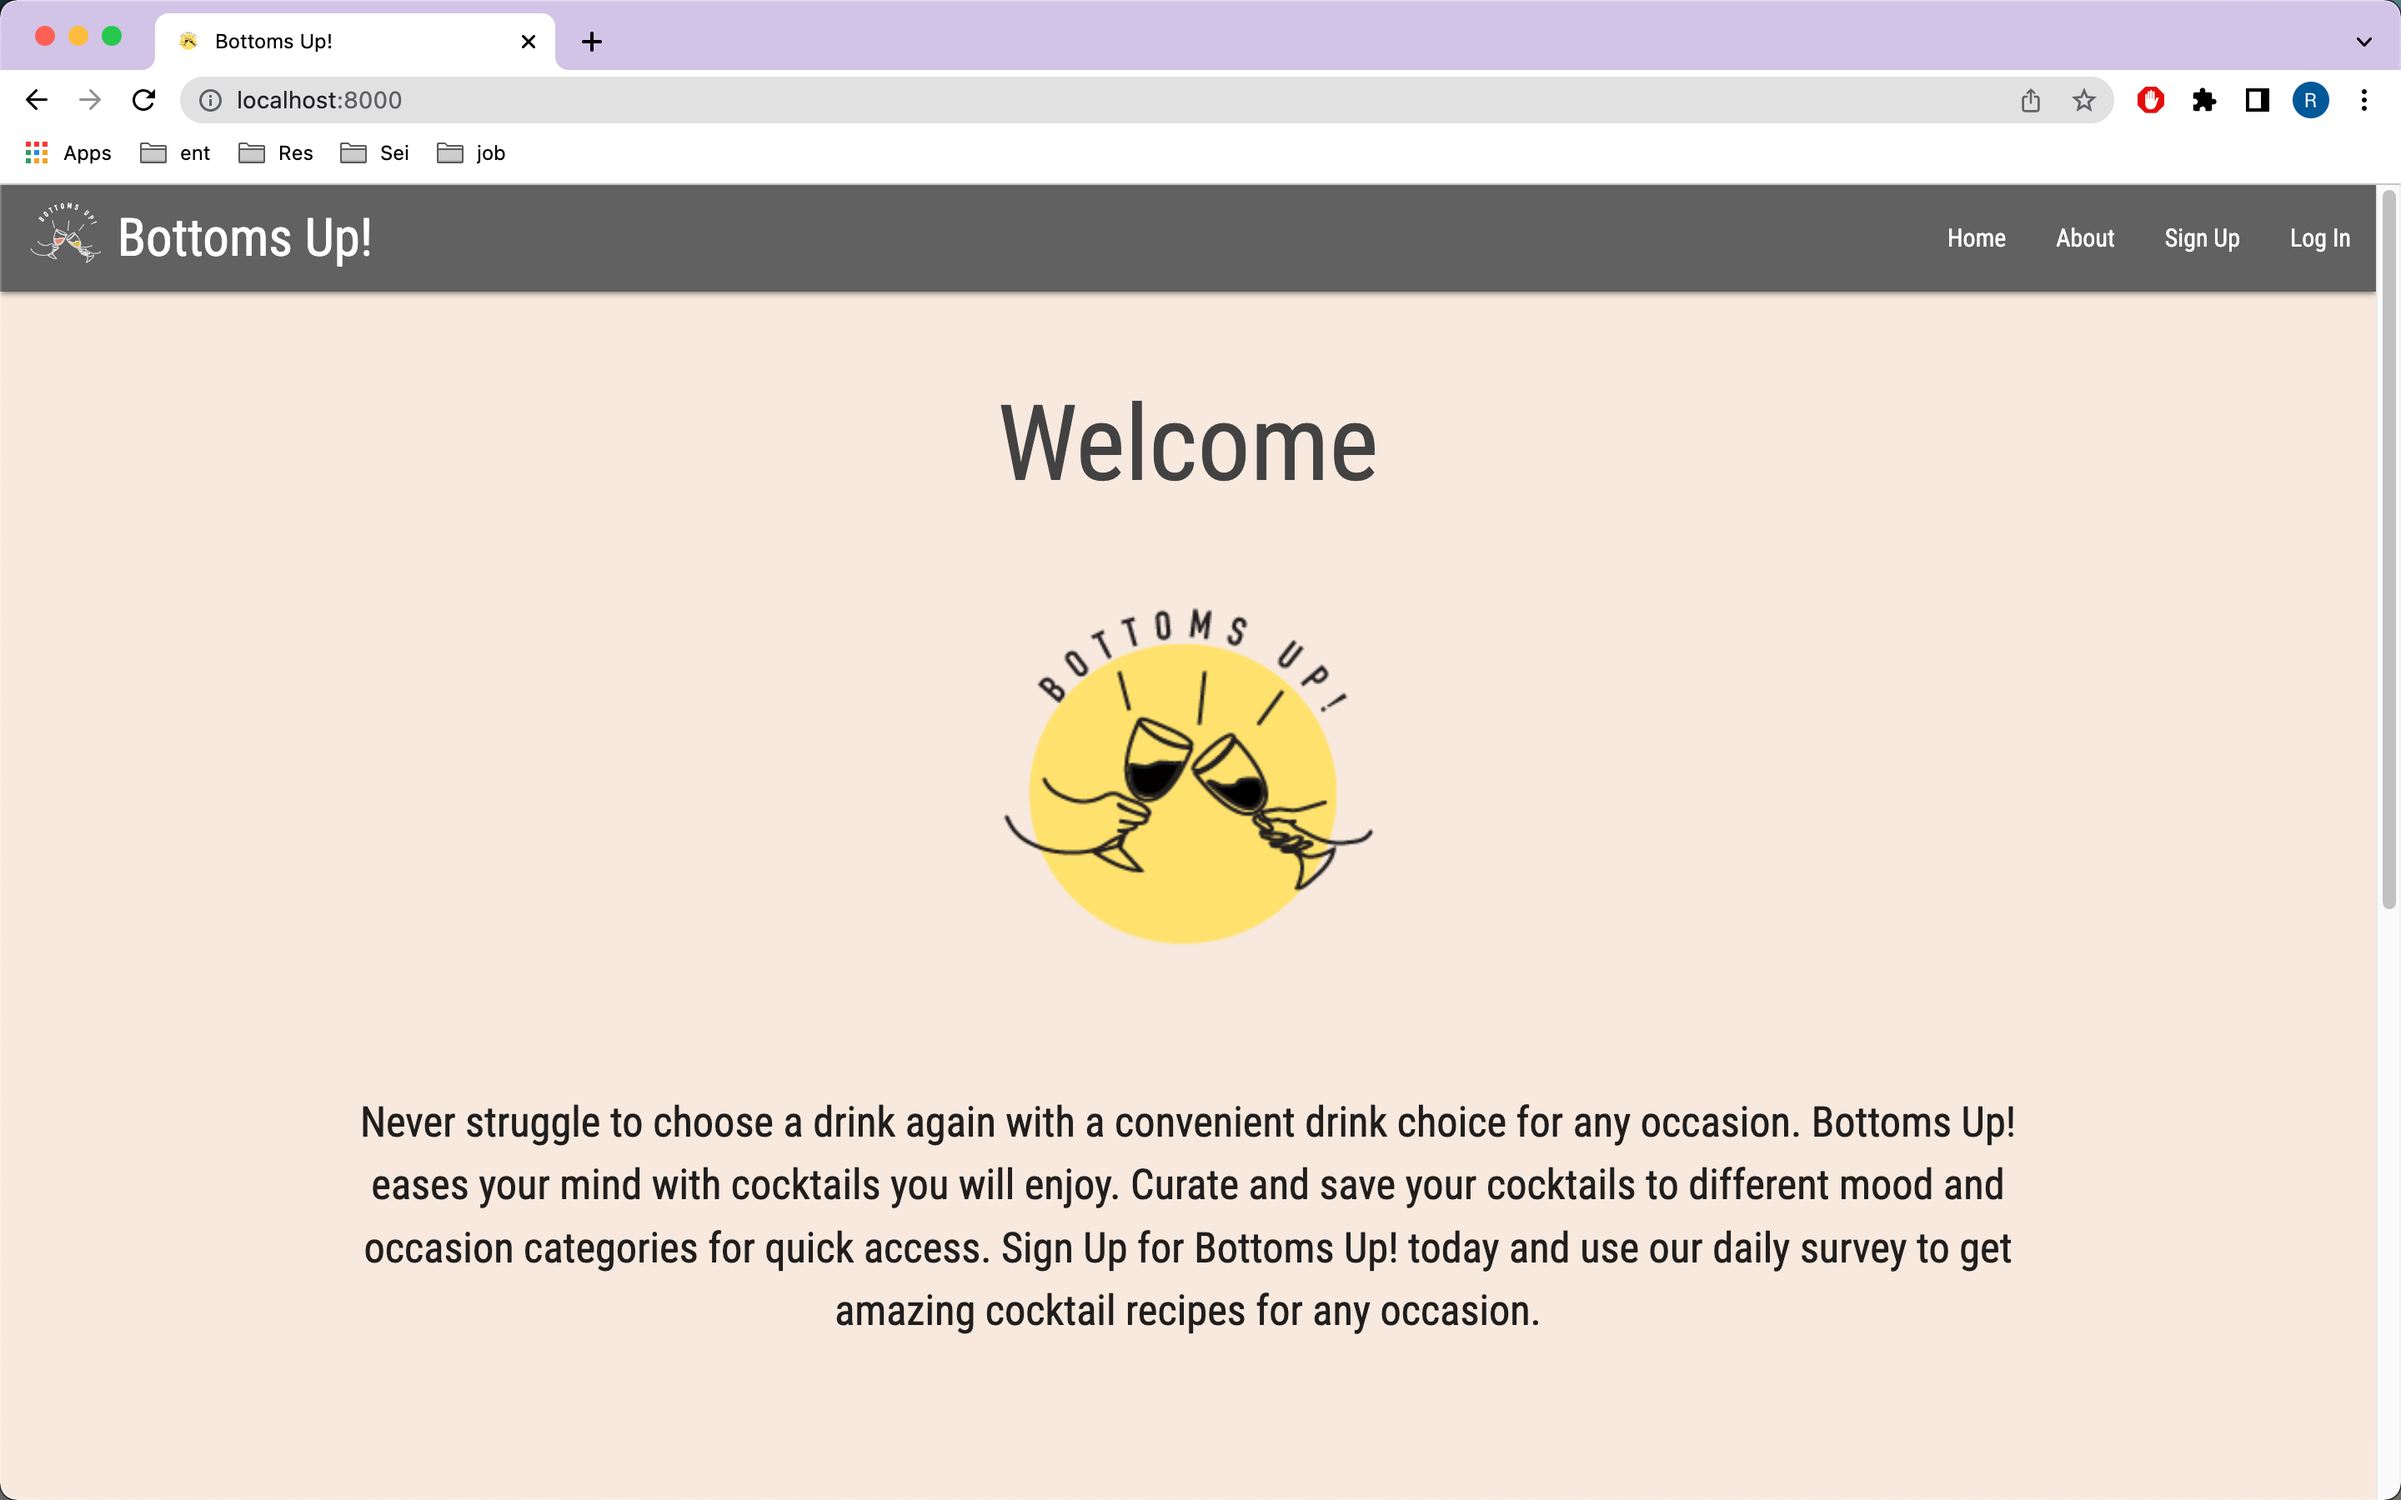
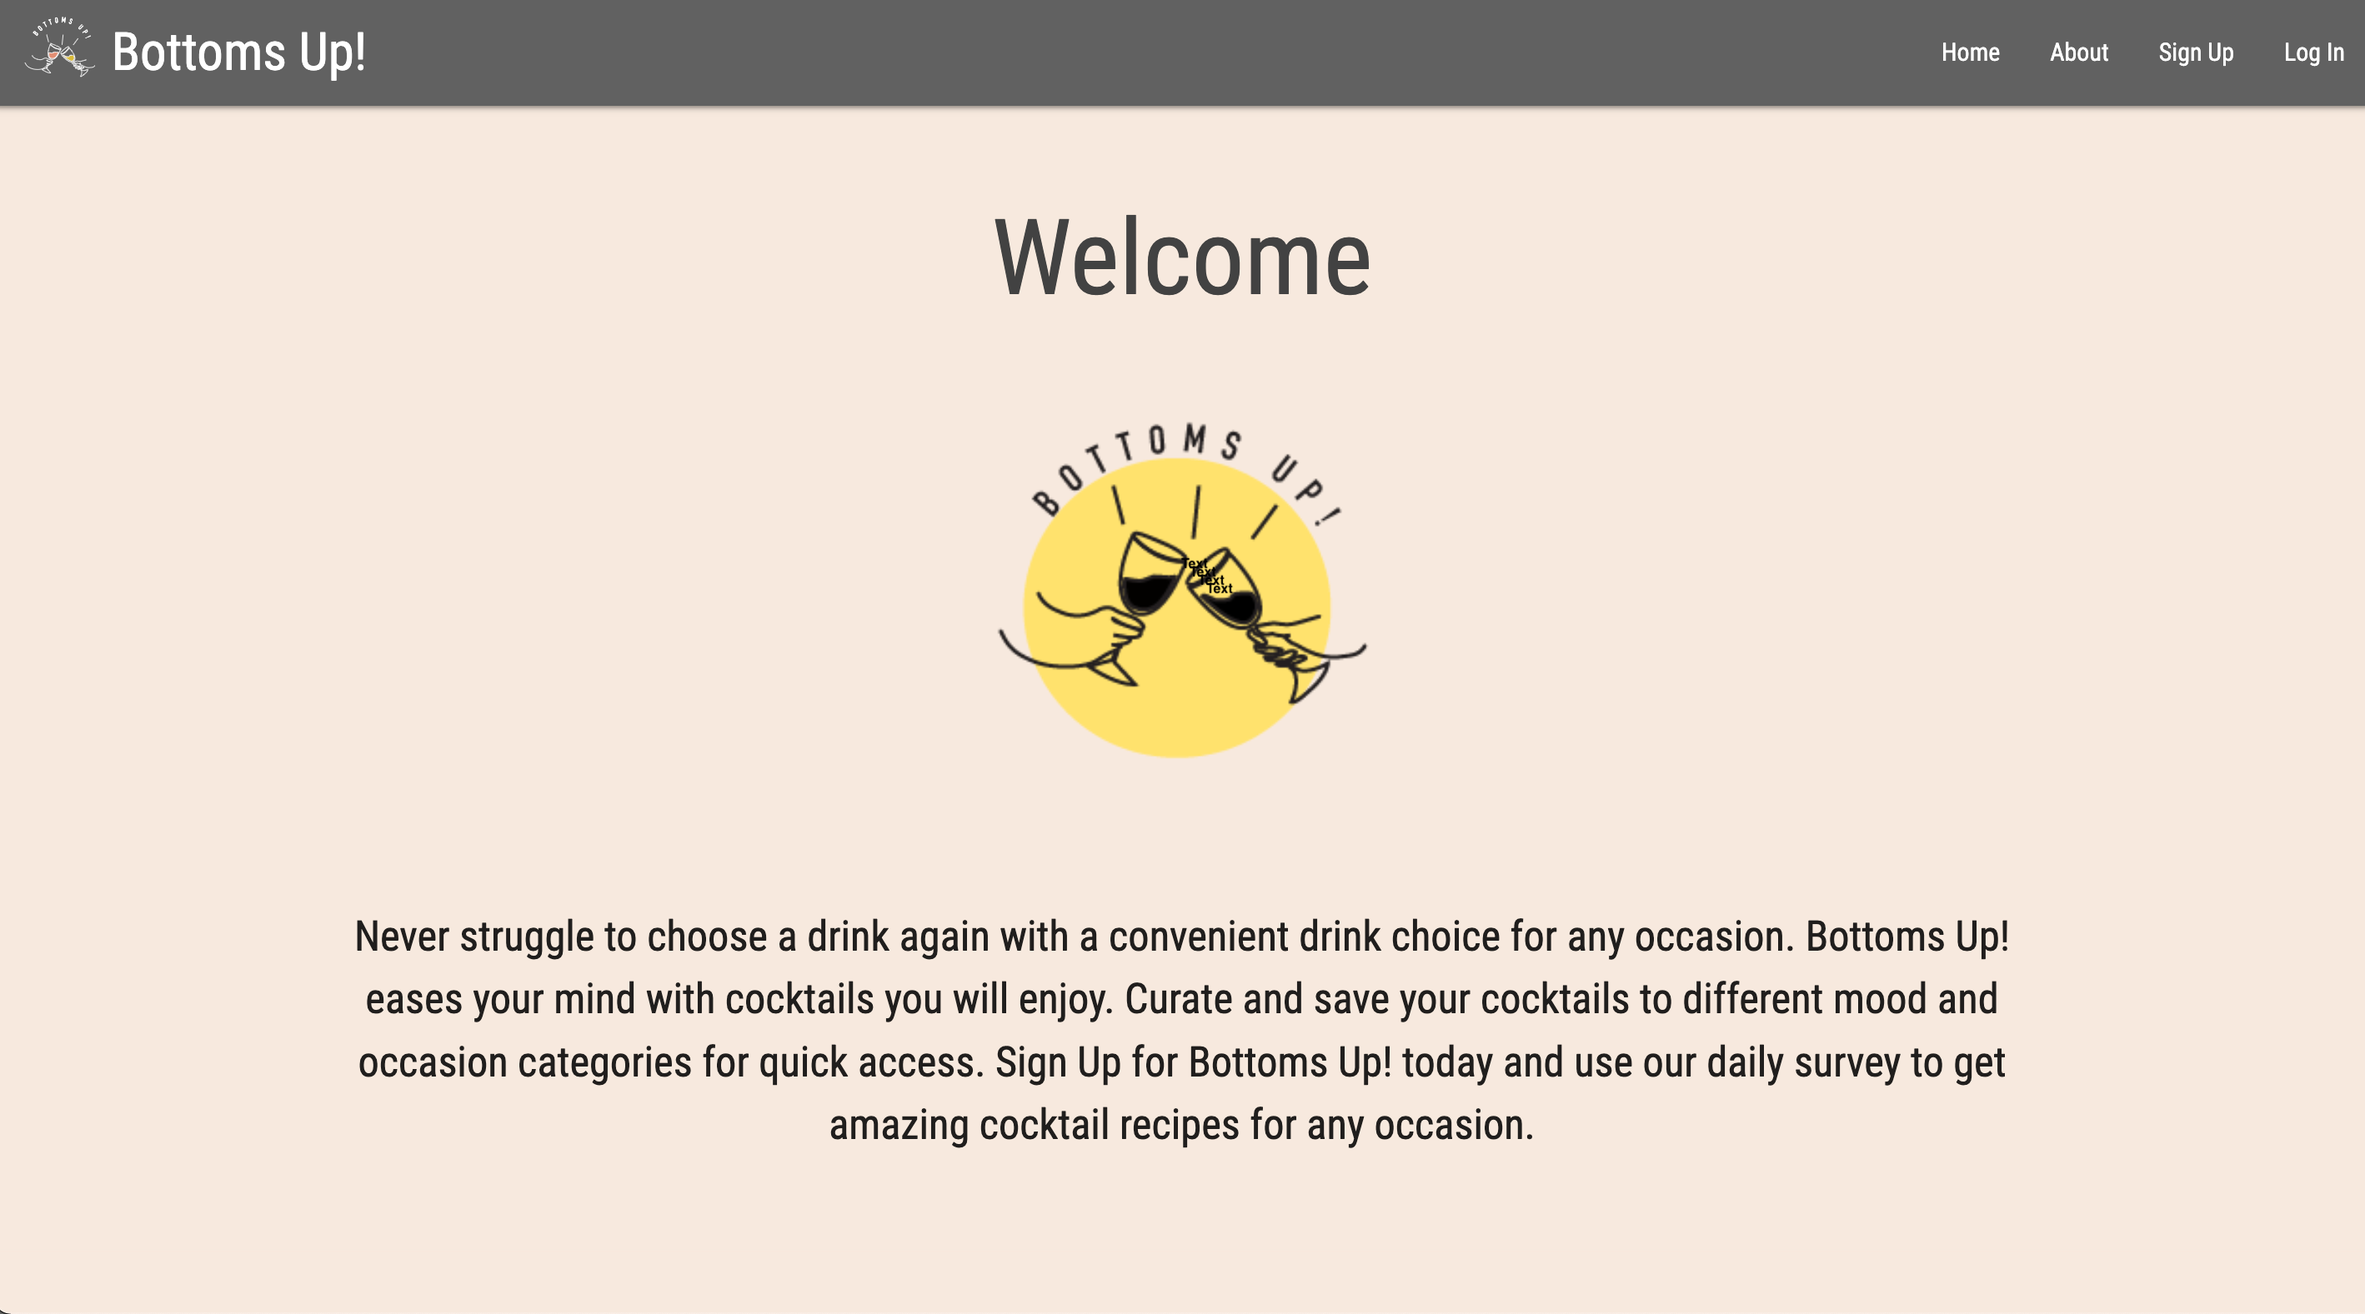
images sized and clickable

Changed region(s): [[0.0, 0.0, 1.0, 1.0], [0.1551, 0.6836, 0.8685, 0.9011], [0.4032, 0.2796, 0.5894, 0.6525]]

diff --git a/public/stylesheets/style.css b/public/stylesheets/style.css
@@ -25,17 +25,24 @@ h1, h2 {
 
 #projects {
   background-color: rgba(169, 169, 169, 0.317);
-  padding: 100px;
+  padding: 10vmin;
   display: flex;
   flex-direction: row;
   justify-content: space-around;
   align-items: center;
 }
 #projects>a {
-  padding: 10px;
+  padding: 1vmin;
 }
 #img{
   display: flex;
   flex-direction: column;
-  width: 300px;
+  justify-content: center;
+  align-items: center;
+}
+
+img {
+  width: 20vmin;
+  height: 15vmin;
+  padding: 1vmin;
 }
